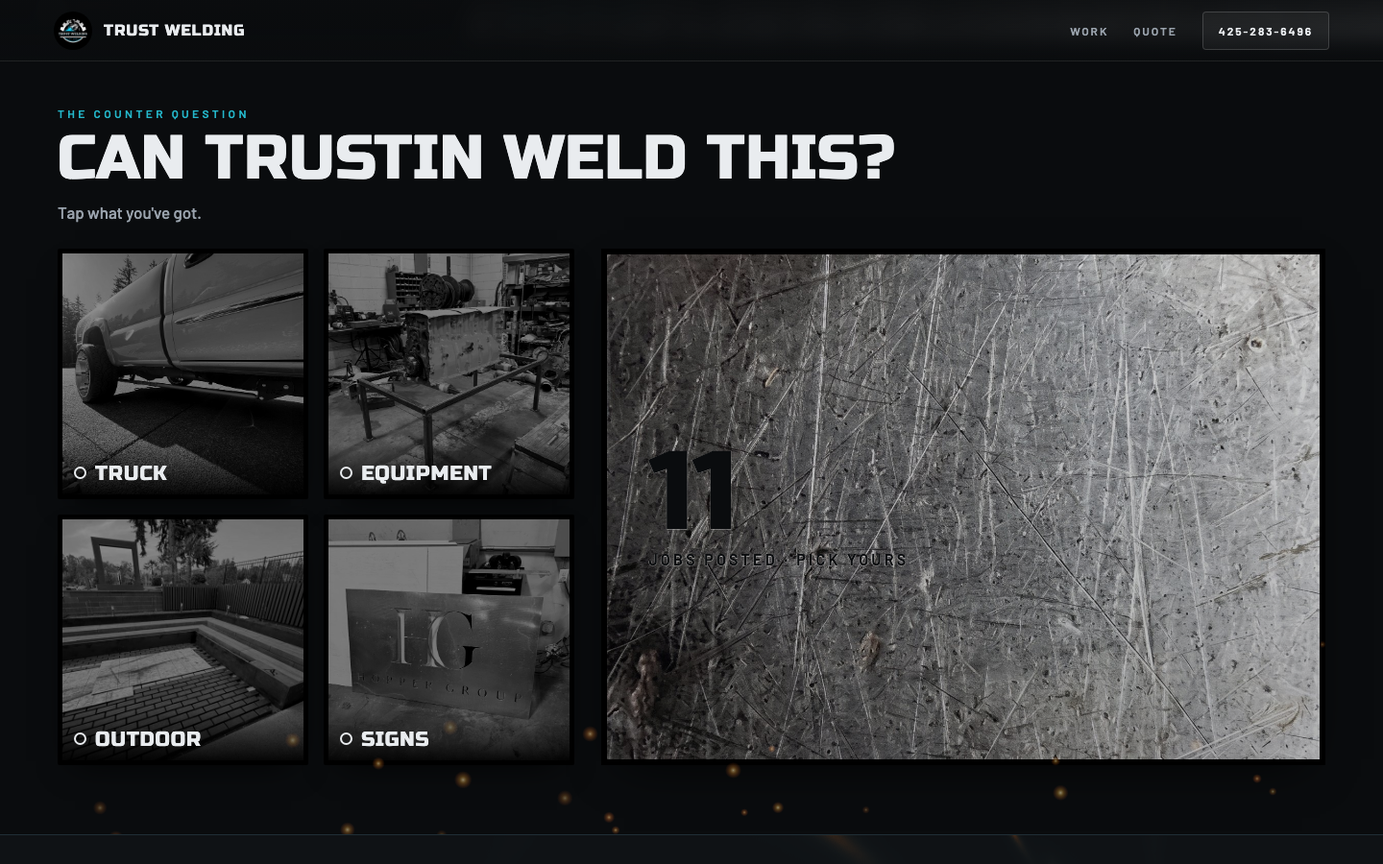
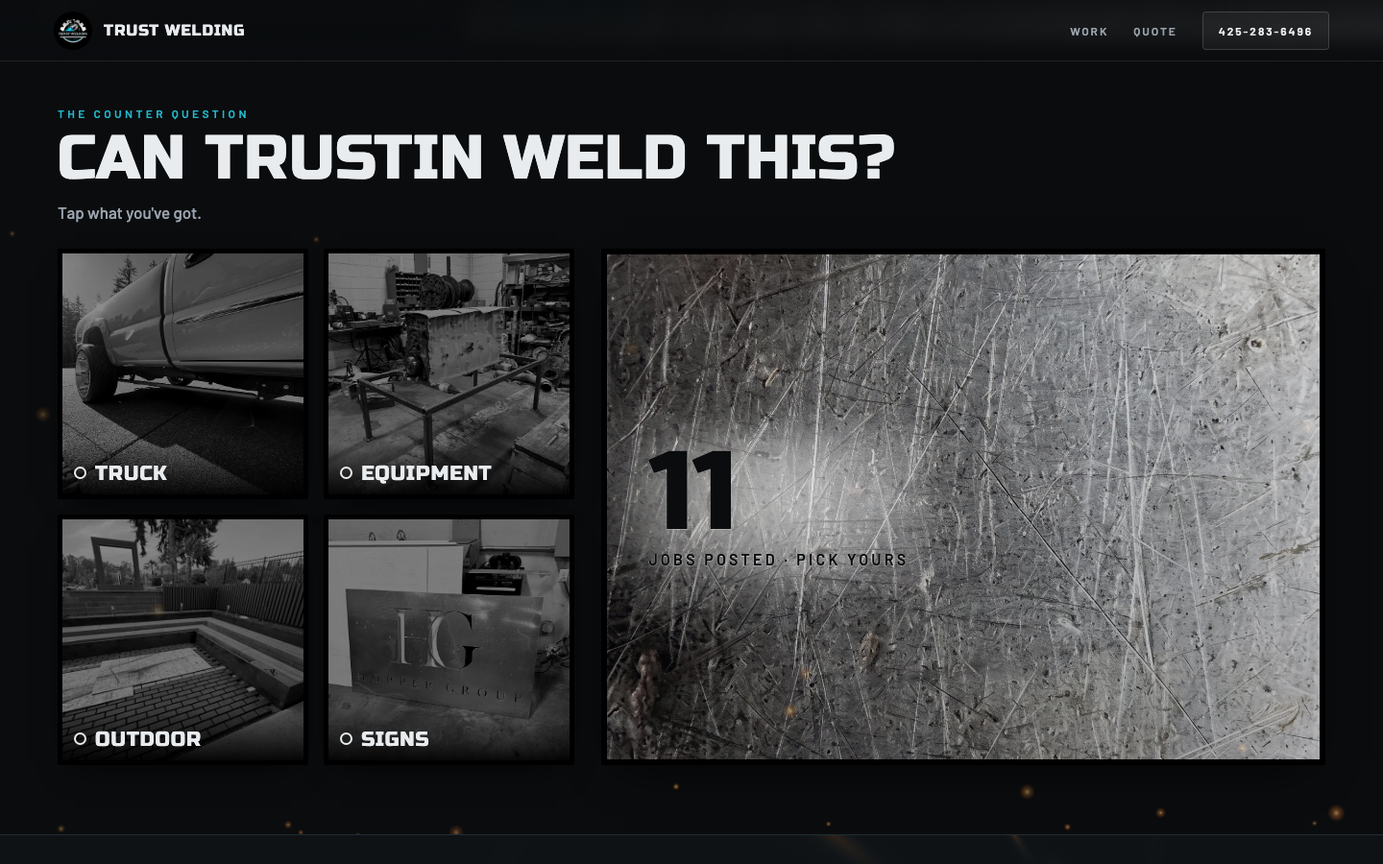
Trust Welding learned pass, after critic round four: the idle number on the light pool, the tapped result one block with stamped names, the phone panel eases when the bar hides, photos beside the words that name them, each line once

diff --git a/trust-welding/learned/index.html b/trust-welding/learned/index.html
@@ -9,11 +9,11 @@
 <meta name="description" content="Trust Welding: custom metal fabrication and mobile welding serving King County. Steel, aluminum and Corten. Call or text 425-283-6496.">
 <link rel="preconnect" href="https://fonts.googleapis.com"><link rel="preconnect" href="https://fonts.gstatic.com" crossorigin>
 <link href="https://fonts.googleapis.com/css2?family=Russo+One&family=Barlow:wght@400;500;600&family=Archivo:wght@600;700&display=swap" rel="stylesheet">
-<link rel="stylesheet" href="css/site3.css?v=1793908427">
-<link rel="stylesheet" href="css/fold-text.css?v=1793908427">
-<link rel="stylesheet" href="css/wtj.css?v=1793908427">
-<link rel="stylesheet" href="css/molten-metal.css?v=1793908427">
-<link rel="stylesheet" href="css/learned.css?v=1793908427">
+<link rel="stylesheet" href="css/site3.css?v=1793909798">
+<link rel="stylesheet" href="css/fold-text.css?v=1793909798">
+<link rel="stylesheet" href="css/wtj.css?v=1793909798">
+<link rel="stylesheet" href="css/molten-metal.css?v=1793909798">
+<link rel="stylesheet" href="css/learned.css?v=1793909798">
 <link rel="icon" href="images/badge.jpg">
 </head>
 <body>
@@ -37,18 +37,18 @@
   <div class="flow" id="flow" data-per="3">
     <div class="photos" aria-label="His work, from his Instagram">
       <figure><img src="images/work/premier-chiropractic-install.jpg" srcset="images/work/phone/premier-chiropractic-install.jpg 760w, images/work/1080/premier-chiropractic-install.jpg 1080w, images/work/premier-chiropractic-install.jpg 1400w" sizes="(max-width:900px) 90vw, 46vw" width="1290" height="2294" alt="Install · Premier Chiropractic" loading="lazy" decoding="async"><figcaption>Install · Premier Chiropractic</figcaption></figure>
+      <figure><img src="images/work/headache-rack.jpg" srcset="images/work/phone/headache-rack.jpg 760w, images/work/1080/headache-rack.jpg 1080w, images/work/headache-rack.jpg 1400w" sizes="(max-width:900px) 90vw, 46vw" width="1400" height="1392" alt="Headache rack" loading="lazy" decoding="async"><figcaption>Headache rack</figcaption></figure>
+      <figure><img src="images/work/d-rings-roll-off-bed.jpg" srcset="images/work/phone/d-rings-roll-off-bed.jpg 760w, images/work/1080/d-rings-roll-off-bed.jpg 1080w, images/work/d-rings-roll-off-bed.jpg 1400w" sizes="(max-width:900px) 90vw, 46vw" width="640" height="1136" alt="D-rings · roll-off bed" loading="lazy" decoding="async"><figcaption>D-rings · roll-off bed</figcaption></figure>
+      <figure><img src="images/work/aluminum-roof-rack-bars.jpg" srcset="images/work/phone/aluminum-roof-rack-bars.jpg 760w, images/work/1080/aluminum-roof-rack-bars.jpg 1080w, images/work/aluminum-roof-rack-bars.jpg 1400w" sizes="(max-width:900px) 90vw, 46vw" width="1400" height="1866" alt="Aluminum roof-rack bars" loading="lazy" decoding="async"><figcaption>Aluminum roof-rack bars</figcaption></figure>
+      <figure><img src="images/work/gantry-lift.jpg" srcset="images/work/phone/gantry-lift.jpg 760w, images/work/1080/gantry-lift.jpg 1080w, images/work/gantry-lift.jpg 1400w" sizes="(max-width:900px) 90vw, 46vw" width="1400" height="1866" alt="Gantry lift" loading="lazy" decoding="async"><figcaption>Gantry lift</figcaption></figure>
+      <figure><img src="images/work/gantry-lift-3.jpg" srcset="images/work/phone/gantry-lift-3.jpg 760w, images/work/1080/gantry-lift-3.jpg 1080w, images/work/gantry-lift-3.jpg 1400w" sizes="(max-width:900px) 90vw, 46vw" width="1400" height="1866" alt="Gantry lift · the frame" loading="lazy" decoding="async"><figcaption>Gantry lift · the frame</figcaption></figure>
+      <figure><img src="images/work/corten-fire-pit-2.jpg" srcset="images/work/phone/corten-fire-pit-2.jpg 760w, images/work/1080/corten-fire-pit-2.jpg 1080w, images/work/corten-fire-pit-2.jpg 1400w" sizes="(max-width:900px) 90vw, 46vw" width="1400" height="1054" alt="Corten fire pit · the cladding, close" loading="lazy" decoding="async"><figcaption>Corten fire pit · the cladding, close</figcaption></figure>
       <figure><img src="images/work/steel-planter-boxes.jpg" srcset="images/work/phone/steel-planter-boxes.jpg 760w, images/work/1080/steel-planter-boxes.jpg 1080w, images/work/steel-planter-boxes.jpg 1400w" sizes="(max-width:900px) 90vw, 46vw" width="1400" height="1866" alt="Custom steel planter boxes" loading="lazy" decoding="async"><figcaption>Custom steel planter boxes</figcaption></figure>
       <figure><img src="images/work/mariners-trident-door.jpg" srcset="images/work/phone/mariners-trident-door.jpg 760w, images/work/1080/mariners-trident-door.jpg 1080w, images/work/mariners-trident-door.jpg 1400w" sizes="(max-width:900px) 90vw, 46vw" width="997" height="1144" alt="Trident cut-out · a Seattle cocktail door" loading="lazy" decoding="async"><figcaption>Trident cut-out · a Seattle cocktail door</figcaption></figure>
-      <figure><img src="images/work/corten-fire-pit-2.jpg" srcset="images/work/phone/corten-fire-pit-2.jpg 760w, images/work/1080/corten-fire-pit-2.jpg 1080w, images/work/corten-fire-pit-2.jpg 1400w" sizes="(max-width:900px) 90vw, 46vw" width="1400" height="1054" alt="Corten fire pit · the cladding, close" loading="lazy" decoding="async"><figcaption>Corten fire pit · the cladding, close</figcaption></figure>
-      <figure><img src="images/work/aluminum-roof-rack-bars.jpg" srcset="images/work/phone/aluminum-roof-rack-bars.jpg 760w, images/work/1080/aluminum-roof-rack-bars.jpg 1080w, images/work/aluminum-roof-rack-bars.jpg 1400w" sizes="(max-width:900px) 90vw, 46vw" width="1400" height="1866" alt="Aluminum roof-rack bars" loading="lazy" decoding="async"><figcaption>Aluminum roof-rack bars</figcaption></figure>
-      <figure><img src="images/work/track-bars-3.jpg" srcset="images/work/phone/track-bars-3.jpg 760w, images/work/1080/track-bars-3.jpg 1080w, images/work/track-bars-3.jpg 1400w" sizes="(max-width:900px) 90vw, 46vw" width="1400" height="1866" alt="Track bars · the welds" loading="lazy" decoding="async"><figcaption>Track bars · the welds</figcaption></figure>
       <figure><img src="images/work/mariners-trident-2.jpg" srcset="images/work/phone/mariners-trident-2.jpg 760w, images/work/1080/mariners-trident-2.jpg 1080w, images/work/mariners-trident-2.jpg 1400w" sizes="(max-width:900px) 90vw, 46vw" width="1400" height="1606" alt="Trident cut-out · second piece" loading="lazy" decoding="async"><figcaption>Trident cut-out · second piece</figcaption></figure>
-      <figure><img src="images/work/gantry-lift.jpg" srcset="images/work/phone/gantry-lift.jpg 760w, images/work/1080/gantry-lift.jpg 1080w, images/work/gantry-lift.jpg 1400w" sizes="(max-width:900px) 90vw, 46vw" width="1400" height="1866" alt="Gantry lift" loading="lazy" decoding="async"><figcaption>Gantry lift</figcaption></figure>
-      <figure><img src="images/work/headache-rack.jpg" srcset="images/work/phone/headache-rack.jpg 760w, images/work/1080/headache-rack.jpg 1080w, images/work/headache-rack.jpg 1400w" sizes="(max-width:900px) 90vw, 46vw" width="1400" height="1392" alt="Headache rack" loading="lazy" decoding="async"><figcaption>Headache rack</figcaption></figure>
       <figure><img src="images/work/gantry-lift-2.jpg" srcset="images/work/phone/gantry-lift-2.jpg 760w, images/work/1080/gantry-lift-2.jpg 1080w, images/work/gantry-lift-2.jpg 1400w" sizes="(max-width:900px) 90vw, 46vw" width="1400" height="1866" alt="Gantry lift · second view" loading="lazy" decoding="async"><figcaption>Gantry lift · second view</figcaption></figure>
-      <figure><img src="images/work/d-rings-roll-off-bed.jpg" srcset="images/work/phone/d-rings-roll-off-bed.jpg 760w, images/work/1080/d-rings-roll-off-bed.jpg 1080w, images/work/d-rings-roll-off-bed.jpg 1400w" sizes="(max-width:900px) 90vw, 46vw" width="640" height="1136" alt="D-rings · roll-off bed" loading="lazy" decoding="async"><figcaption>D-rings · roll-off bed</figcaption></figure>
-      <figure><img src="images/work/gantry-lift-3.jpg" srcset="images/work/phone/gantry-lift-3.jpg 760w, images/work/1080/gantry-lift-3.jpg 1080w, images/work/gantry-lift-3.jpg 1400w" sizes="(max-width:900px) 90vw, 46vw" width="1400" height="1866" alt="Gantry lift · the frame" loading="lazy" decoding="async"><figcaption>Gantry lift · the frame</figcaption></figure>
       <figure><img src="images/work/story-highlight-1.jpg" srcset="images/work/phone/story-highlight-1.jpg 760w, images/work/1080/story-highlight-1.jpg 1080w, images/work/story-highlight-1.jpg 1400w" sizes="(max-width:900px) 90vw, 46vw" width="1080" height="1459" alt="From his stories" loading="lazy" decoding="async"><figcaption>From his stories</figcaption></figure>
+      <figure><img src="images/work/track-bars-3.jpg" srcset="images/work/phone/track-bars-3.jpg 760w, images/work/1080/track-bars-3.jpg 1080w, images/work/track-bars-3.jpg 1400w" sizes="(max-width:900px) 90vw, 46vw" width="1400" height="1866" alt="Track bars · the welds" loading="lazy" decoding="async"><figcaption>Track bars · the welds</figcaption></figure>
     </div>
     <aside class="panel" aria-label="About the work">
       <div class="stack">
@@ -75,8 +75,8 @@
         <div class="steps">
           <div class="step"><span class="k">The shop</span><p>It went together on the shop floor, Colibri's mark cut clean through the face before it ever left the building.</p></div>
           <div class="step"><span class="k">The site</span><p>Then out to the roastery: the steel rails standing on the gravel where the patio goes, before anyone leans a coffee on them.</p></div>
-          <div class="step"><span class="k">Done</span><p>Set in place along the front of the building. Built in the shop, set on site, one welder start to finish.</p></div>
-          <div class="step"><span class="k">Yours</span><p>Text a photo and a rough size. You'll hear back from the person holding the torch.</p><div class="ways"><a class="btn primary" href="sms:+14252836496">Text 425-283-6496</a><a class="btn" href="tel:+14252836496">Call</a></div></div>
+          <div class="step"><span class="k">Done</span><p>Set in place along the front of the roastery.</p></div>
+          <div class="step"><span class="k">Yours</span><p>Yours is next.</p><div class="ways"><a class="btn primary" href="sms:+14252836496">Text 425-283-6496</a><a class="btn" href="tel:+14252836496">Call</a></div></div>
         </div>
         <p class="stamp" aria-hidden="true"><span>Shop</span><span>Site</span><span>Done</span><span>Yours</span></p>
         <div class="ticks" aria-hidden="true"><i class="on"></i><i></i><i></i><i></i></div>
@@ -91,7 +91,7 @@
       <div class="wtj-grid">
         <div class="wtj-tiles" role="group" aria-label="What you've got"></div>
         <div class="wtj-stage" aria-live="polite">
-          <div class="wtj-idle"><div class="wtj-big">0</div><div class="wtj-sub"></div></div>
+          <div class="wtj-idle"><div class="wtj-num"><div class="wtj-big">0</div><div class="wtj-sub"></div></div></div>
           <div class="wtj-show"><div class="wtj-photos"></div><div class="wtj-bar"><div class="wtj-count"><b>0</b><span></span></div><a class="wtj-text" href="#">Text a photo of yours</a></div></div>
         </div>
       </div>
@@ -102,7 +102,7 @@
       <div>
         <p class="eyebrow">Quote</p>
         <h2>Tell me about the job</h2>
-        <p>Tell me what it is and where it sits.</p>
+        <p>What it is, and where it sits.</p>
         <div class="ways"><a class="btn primary" href="sms:+14252836496">Text 425-283-6496</a><a class="btn" href="tel:+14252836496">Call</a><a class="btn" href="https://www.instagram.com/trust.welding/" target="_blank" rel="noopener">Instagram</a></div>
       </div>
       <form class="contact-form" id="quoteForm" novalidate>
@@ -127,9 +127,9 @@
 </footer>
 <script src="js/vendor/gsap.min.js"></script>
 <script src="js/vendor/ScrollTrigger.min.js"></script>
-<script src="js/vendor/fold-text.js?v=1793908427"></script>
-<script src="js/vendor/wtj/click-spark.js?v=1793908427"></script>
-<script src="js/vendor/wtj/whats-the-job.js?v=1793908427"></script>
+<script src="js/vendor/fold-text.js?v=1793909798"></script>
+<script src="js/vendor/wtj/click-spark.js?v=1793909798"></script>
+<script src="js/vendor/wtj/whats-the-job.js?v=1793909798"></script>
 <script>
 // the panel holds; the section changes every 3 photos (the photo column's scroll progress); every time a section opens its words fold open (React Bits Fold Text, ported: js/vendor/fold-text.js)
 gsap.registerPlugin(ScrollTrigger);
@@ -197,7 +197,7 @@ if (!reduce) {
   requestAnimationFrame(tick);
 })();
 </script>
-<script src="js/learned.js?v=1793908427"></script>
+<script src="js/learned.js?v=1793909798"></script>
 <script>
 // Format panel (Hayden 11/4: "themes or formats… for me to manually adjust and edit"): localhost or ?edit=1; sliders set CSS variables on <html>, remembered in localStorage 'tw-format'; Copy puts the JSON on the clipboard
 if ((location.hostname === 'localhost' || location.search.includes('edit=1')) && !location.search.includes('nofmt')) (function () {

diff --git a/trust-welding/versions/learned.html b/trust-welding/versions/learned.html
@@ -9,11 +9,11 @@
 <meta name="description" content="Trust Welding: custom metal fabrication and mobile welding serving King County. Steel, aluminum and Corten. Call or text 425-283-6496.">
 <link rel="preconnect" href="https://fonts.googleapis.com"><link rel="preconnect" href="https://fonts.gstatic.com" crossorigin>
 <link href="https://fonts.googleapis.com/css2?family=Russo+One&family=Barlow:wght@400;500;600&family=Archivo:wght@600;700&display=swap" rel="stylesheet">
-<link rel="stylesheet" href="css/site3.css?v=1793908427">
-<link rel="stylesheet" href="css/fold-text.css?v=1793908427">
-<link rel="stylesheet" href="css/wtj.css?v=1793908427">
-<link rel="stylesheet" href="css/molten-metal.css?v=1793908427">
-<link rel="stylesheet" href="css/learned.css?v=1793908427">
+<link rel="stylesheet" href="css/site3.css?v=1793909798">
+<link rel="stylesheet" href="css/fold-text.css?v=1793909798">
+<link rel="stylesheet" href="css/wtj.css?v=1793909798">
+<link rel="stylesheet" href="css/molten-metal.css?v=1793909798">
+<link rel="stylesheet" href="css/learned.css?v=1793909798">
 <link rel="icon" href="images/badge.jpg">
 </head>
 <body>
@@ -37,18 +37,18 @@
   <div class="flow" id="flow" data-per="3">
     <div class="photos" aria-label="His work, from his Instagram">
       <figure><img src="images/work/premier-chiropractic-install.jpg" srcset="images/work/phone/premier-chiropractic-install.jpg 760w, images/work/1080/premier-chiropractic-install.jpg 1080w, images/work/premier-chiropractic-install.jpg 1400w" sizes="(max-width:900px) 90vw, 46vw" width="1290" height="2294" alt="Install · Premier Chiropractic" loading="lazy" decoding="async"><figcaption>Install · Premier Chiropractic</figcaption></figure>
+      <figure><img src="images/work/headache-rack.jpg" srcset="images/work/phone/headache-rack.jpg 760w, images/work/1080/headache-rack.jpg 1080w, images/work/headache-rack.jpg 1400w" sizes="(max-width:900px) 90vw, 46vw" width="1400" height="1392" alt="Headache rack" loading="lazy" decoding="async"><figcaption>Headache rack</figcaption></figure>
+      <figure><img src="images/work/d-rings-roll-off-bed.jpg" srcset="images/work/phone/d-rings-roll-off-bed.jpg 760w, images/work/1080/d-rings-roll-off-bed.jpg 1080w, images/work/d-rings-roll-off-bed.jpg 1400w" sizes="(max-width:900px) 90vw, 46vw" width="640" height="1136" alt="D-rings · roll-off bed" loading="lazy" decoding="async"><figcaption>D-rings · roll-off bed</figcaption></figure>
+      <figure><img src="images/work/aluminum-roof-rack-bars.jpg" srcset="images/work/phone/aluminum-roof-rack-bars.jpg 760w, images/work/1080/aluminum-roof-rack-bars.jpg 1080w, images/work/aluminum-roof-rack-bars.jpg 1400w" sizes="(max-width:900px) 90vw, 46vw" width="1400" height="1866" alt="Aluminum roof-rack bars" loading="lazy" decoding="async"><figcaption>Aluminum roof-rack bars</figcaption></figure>
+      <figure><img src="images/work/gantry-lift.jpg" srcset="images/work/phone/gantry-lift.jpg 760w, images/work/1080/gantry-lift.jpg 1080w, images/work/gantry-lift.jpg 1400w" sizes="(max-width:900px) 90vw, 46vw" width="1400" height="1866" alt="Gantry lift" loading="lazy" decoding="async"><figcaption>Gantry lift</figcaption></figure>
+      <figure><img src="images/work/gantry-lift-3.jpg" srcset="images/work/phone/gantry-lift-3.jpg 760w, images/work/1080/gantry-lift-3.jpg 1080w, images/work/gantry-lift-3.jpg 1400w" sizes="(max-width:900px) 90vw, 46vw" width="1400" height="1866" alt="Gantry lift · the frame" loading="lazy" decoding="async"><figcaption>Gantry lift · the frame</figcaption></figure>
+      <figure><img src="images/work/corten-fire-pit-2.jpg" srcset="images/work/phone/corten-fire-pit-2.jpg 760w, images/work/1080/corten-fire-pit-2.jpg 1080w, images/work/corten-fire-pit-2.jpg 1400w" sizes="(max-width:900px) 90vw, 46vw" width="1400" height="1054" alt="Corten fire pit · the cladding, close" loading="lazy" decoding="async"><figcaption>Corten fire pit · the cladding, close</figcaption></figure>
       <figure><img src="images/work/steel-planter-boxes.jpg" srcset="images/work/phone/steel-planter-boxes.jpg 760w, images/work/1080/steel-planter-boxes.jpg 1080w, images/work/steel-planter-boxes.jpg 1400w" sizes="(max-width:900px) 90vw, 46vw" width="1400" height="1866" alt="Custom steel planter boxes" loading="lazy" decoding="async"><figcaption>Custom steel planter boxes</figcaption></figure>
       <figure><img src="images/work/mariners-trident-door.jpg" srcset="images/work/phone/mariners-trident-door.jpg 760w, images/work/1080/mariners-trident-door.jpg 1080w, images/work/mariners-trident-door.jpg 1400w" sizes="(max-width:900px) 90vw, 46vw" width="997" height="1144" alt="Trident cut-out · a Seattle cocktail door" loading="lazy" decoding="async"><figcaption>Trident cut-out · a Seattle cocktail door</figcaption></figure>
-      <figure><img src="images/work/corten-fire-pit-2.jpg" srcset="images/work/phone/corten-fire-pit-2.jpg 760w, images/work/1080/corten-fire-pit-2.jpg 1080w, images/work/corten-fire-pit-2.jpg 1400w" sizes="(max-width:900px) 90vw, 46vw" width="1400" height="1054" alt="Corten fire pit · the cladding, close" loading="lazy" decoding="async"><figcaption>Corten fire pit · the cladding, close</figcaption></figure>
-      <figure><img src="images/work/aluminum-roof-rack-bars.jpg" srcset="images/work/phone/aluminum-roof-rack-bars.jpg 760w, images/work/1080/aluminum-roof-rack-bars.jpg 1080w, images/work/aluminum-roof-rack-bars.jpg 1400w" sizes="(max-width:900px) 90vw, 46vw" width="1400" height="1866" alt="Aluminum roof-rack bars" loading="lazy" decoding="async"><figcaption>Aluminum roof-rack bars</figcaption></figure>
-      <figure><img src="images/work/track-bars-3.jpg" srcset="images/work/phone/track-bars-3.jpg 760w, images/work/1080/track-bars-3.jpg 1080w, images/work/track-bars-3.jpg 1400w" sizes="(max-width:900px) 90vw, 46vw" width="1400" height="1866" alt="Track bars · the welds" loading="lazy" decoding="async"><figcaption>Track bars · the welds</figcaption></figure>
       <figure><img src="images/work/mariners-trident-2.jpg" srcset="images/work/phone/mariners-trident-2.jpg 760w, images/work/1080/mariners-trident-2.jpg 1080w, images/work/mariners-trident-2.jpg 1400w" sizes="(max-width:900px) 90vw, 46vw" width="1400" height="1606" alt="Trident cut-out · second piece" loading="lazy" decoding="async"><figcaption>Trident cut-out · second piece</figcaption></figure>
-      <figure><img src="images/work/gantry-lift.jpg" srcset="images/work/phone/gantry-lift.jpg 760w, images/work/1080/gantry-lift.jpg 1080w, images/work/gantry-lift.jpg 1400w" sizes="(max-width:900px) 90vw, 46vw" width="1400" height="1866" alt="Gantry lift" loading="lazy" decoding="async"><figcaption>Gantry lift</figcaption></figure>
-      <figure><img src="images/work/headache-rack.jpg" srcset="images/work/phone/headache-rack.jpg 760w, images/work/1080/headache-rack.jpg 1080w, images/work/headache-rack.jpg 1400w" sizes="(max-width:900px) 90vw, 46vw" width="1400" height="1392" alt="Headache rack" loading="lazy" decoding="async"><figcaption>Headache rack</figcaption></figure>
       <figure><img src="images/work/gantry-lift-2.jpg" srcset="images/work/phone/gantry-lift-2.jpg 760w, images/work/1080/gantry-lift-2.jpg 1080w, images/work/gantry-lift-2.jpg 1400w" sizes="(max-width:900px) 90vw, 46vw" width="1400" height="1866" alt="Gantry lift · second view" loading="lazy" decoding="async"><figcaption>Gantry lift · second view</figcaption></figure>
-      <figure><img src="images/work/d-rings-roll-off-bed.jpg" srcset="images/work/phone/d-rings-roll-off-bed.jpg 760w, images/work/1080/d-rings-roll-off-bed.jpg 1080w, images/work/d-rings-roll-off-bed.jpg 1400w" sizes="(max-width:900px) 90vw, 46vw" width="640" height="1136" alt="D-rings · roll-off bed" loading="lazy" decoding="async"><figcaption>D-rings · roll-off bed</figcaption></figure>
-      <figure><img src="images/work/gantry-lift-3.jpg" srcset="images/work/phone/gantry-lift-3.jpg 760w, images/work/1080/gantry-lift-3.jpg 1080w, images/work/gantry-lift-3.jpg 1400w" sizes="(max-width:900px) 90vw, 46vw" width="1400" height="1866" alt="Gantry lift · the frame" loading="lazy" decoding="async"><figcaption>Gantry lift · the frame</figcaption></figure>
       <figure><img src="images/work/story-highlight-1.jpg" srcset="images/work/phone/story-highlight-1.jpg 760w, images/work/1080/story-highlight-1.jpg 1080w, images/work/story-highlight-1.jpg 1400w" sizes="(max-width:900px) 90vw, 46vw" width="1080" height="1459" alt="From his stories" loading="lazy" decoding="async"><figcaption>From his stories</figcaption></figure>
+      <figure><img src="images/work/track-bars-3.jpg" srcset="images/work/phone/track-bars-3.jpg 760w, images/work/1080/track-bars-3.jpg 1080w, images/work/track-bars-3.jpg 1400w" sizes="(max-width:900px) 90vw, 46vw" width="1400" height="1866" alt="Track bars · the welds" loading="lazy" decoding="async"><figcaption>Track bars · the welds</figcaption></figure>
     </div>
     <aside class="panel" aria-label="About the work">
       <div class="stack">
@@ -75,8 +75,8 @@
         <div class="steps">
           <div class="step"><span class="k">The shop</span><p>It went together on the shop floor, Colibri's mark cut clean through the face before it ever left the building.</p></div>
           <div class="step"><span class="k">The site</span><p>Then out to the roastery: the steel rails standing on the gravel where the patio goes, before anyone leans a coffee on them.</p></div>
-          <div class="step"><span class="k">Done</span><p>Set in place along the front of the building. Built in the shop, set on site, one welder start to finish.</p></div>
-          <div class="step"><span class="k">Yours</span><p>Text a photo and a rough size. You'll hear back from the person holding the torch.</p><div class="ways"><a class="btn primary" href="sms:+14252836496">Text 425-283-6496</a><a class="btn" href="tel:+14252836496">Call</a></div></div>
+          <div class="step"><span class="k">Done</span><p>Set in place along the front of the roastery.</p></div>
+          <div class="step"><span class="k">Yours</span><p>Yours is next.</p><div class="ways"><a class="btn primary" href="sms:+14252836496">Text 425-283-6496</a><a class="btn" href="tel:+14252836496">Call</a></div></div>
         </div>
         <p class="stamp" aria-hidden="true"><span>Shop</span><span>Site</span><span>Done</span><span>Yours</span></p>
         <div class="ticks" aria-hidden="true"><i class="on"></i><i></i><i></i><i></i></div>
@@ -91,7 +91,7 @@
       <div class="wtj-grid">
         <div class="wtj-tiles" role="group" aria-label="What you've got"></div>
         <div class="wtj-stage" aria-live="polite">
-          <div class="wtj-idle"><div class="wtj-big">0</div><div class="wtj-sub"></div></div>
+          <div class="wtj-idle"><div class="wtj-num"><div class="wtj-big">0</div><div class="wtj-sub"></div></div></div>
           <div class="wtj-show"><div class="wtj-photos"></div><div class="wtj-bar"><div class="wtj-count"><b>0</b><span></span></div><a class="wtj-text" href="#">Text a photo of yours</a></div></div>
         </div>
       </div>
@@ -102,7 +102,7 @@
       <div>
         <p class="eyebrow">Quote</p>
         <h2>Tell me about the job</h2>
-        <p>Tell me what it is and where it sits.</p>
+        <p>What it is, and where it sits.</p>
         <div class="ways"><a class="btn primary" href="sms:+14252836496">Text 425-283-6496</a><a class="btn" href="tel:+14252836496">Call</a><a class="btn" href="https://www.instagram.com/trust.welding/" target="_blank" rel="noopener">Instagram</a></div>
       </div>
       <form class="contact-form" id="quoteForm" novalidate>
@@ -127,9 +127,9 @@
 </footer>
 <script src="js/vendor/gsap.min.js"></script>
 <script src="js/vendor/ScrollTrigger.min.js"></script>
-<script src="js/vendor/fold-text.js?v=1793908427"></script>
-<script src="js/vendor/wtj/click-spark.js?v=1793908427"></script>
-<script src="js/vendor/wtj/whats-the-job.js?v=1793908427"></script>
+<script src="js/vendor/fold-text.js?v=1793909798"></script>
+<script src="js/vendor/wtj/click-spark.js?v=1793909798"></script>
+<script src="js/vendor/wtj/whats-the-job.js?v=1793909798"></script>
 <script>
 // the panel holds; the section changes every 3 photos (the photo column's scroll progress); every time a section opens its words fold open (React Bits Fold Text, ported: js/vendor/fold-text.js)
 gsap.registerPlugin(ScrollTrigger);
@@ -197,7 +197,7 @@ if (!reduce) {
   requestAnimationFrame(tick);
 })();
 </script>
-<script src="js/learned.js?v=1793908427"></script>
+<script src="js/learned.js?v=1793909798"></script>
 <script>
 // Format panel (Hayden 11/4: "themes or formats… for me to manually adjust and edit"): localhost or ?edit=1; sliders set CSS variables on <html>, remembered in localStorage 'tw-format'; Copy puts the JSON on the clipboard
 if ((location.hostname === 'localhost' || location.search.includes('edit=1')) && !location.search.includes('nofmt')) (function () {

diff --git a/trust-welding/css/learned.css b/trust-welding/css/learned.css
@@ -76,10 +76,15 @@ body.thumb-on{padding-bottom:72px}@media (max-width:900px){body.thumb-on .panel{
 
 /* critic round 3 (11/5): the gadget's number on his light pool, big in both states; the plate's second buttons in black outlined type */
 .wtj-idle::before{background:none}
-.wtj-idle>*,.wtj-bar{position:relative;z-index:0}
-.wtj-idle::after,.wtj-bar::before{content:"";position:absolute;inset:-18px -22px;z-index:-1;border-radius:26px;background:radial-gradient(ellipse at 50% 45%,rgba(255,255,255,.64) 0%,rgba(255,255,255,.36) 55%,rgba(255,255,255,0) 100%);filter:blur(20px);pointer-events:none}
-.wtj-bar{background:none;border-radius:0;flex-wrap:wrap;gap:12px;align-items:center}
+.wtj-num,.wtj-show{position:relative;z-index:0}
+.wtj-num::before,.wtj-show::before{content:"";position:absolute;inset:-18px -22px;z-index:-1;border-radius:26px;background:radial-gradient(ellipse at 50% 45%,rgba(255,255,255,.64) 0%,rgba(255,255,255,.36) 55%,rgba(255,255,255,0) 100%);filter:blur(20px);pointer-events:none}
+.wtj-show{display:flex;flex-direction:column;justify-content:center;align-items:flex-start;padding:clamp(20px,3vw,44px)}
+.wtj-bar{display:contents}.wtj-count{order:1;margin:0 0 10px}.wtj-photos{order:2;display:flex;flex-wrap:wrap;gap:4px 18px;flex:0 0 auto;margin:0 0 18px}.wtj-text{order:3}
+.wtj-photos figure.wtj-chip{border:0;background:none;padding:0;box-shadow:none}
+.wtj-photos figure.wtj-chip figcaption{color:#0A0C0E;-webkit-text-stroke:.6px rgba(255,255,255,.6);paint-order:stroke fill;font-size:14px}
 .wtj-count b{font:400 clamp(56px,8vw,120px)/1 var(--wtj-display);color:#0A0C0E;-webkit-text-stroke:1.2px rgba(255,255,255,.65);paint-order:stroke fill}
 .wtj-count span{font:600 13px/1.2 var(--wtj-body);letter-spacing:.14em;text-transform:uppercase;color:#0A0C0E;-webkit-text-stroke:.6px rgba(255,255,255,.6);paint-order:stroke fill}
 .wtj-idle .wtj-big{font-size:clamp(56px,8vw,120px)}
 .sec .ways .btn:not(.primary),.story .ways .btn:not(.primary){color:#0A0C0E;background:rgba(255,255,255,.42);border-color:rgba(0,0,0,.55);-webkit-text-stroke:0;text-shadow:none}
+
+@media (max-width:900px){.panel{transition:bottom .35s cubic-bezier(.2,.7,.2,1)}}
